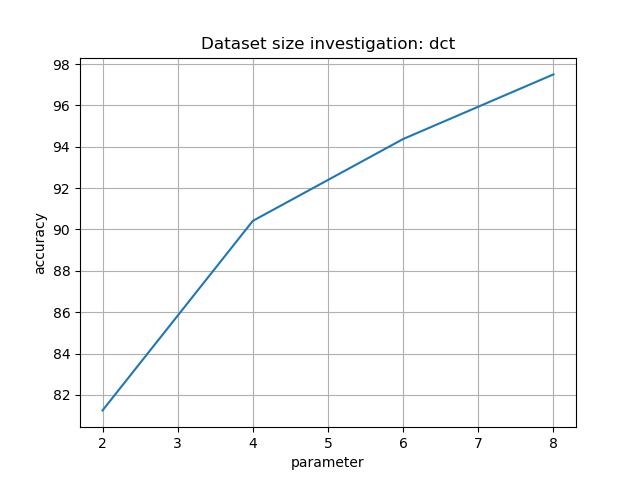
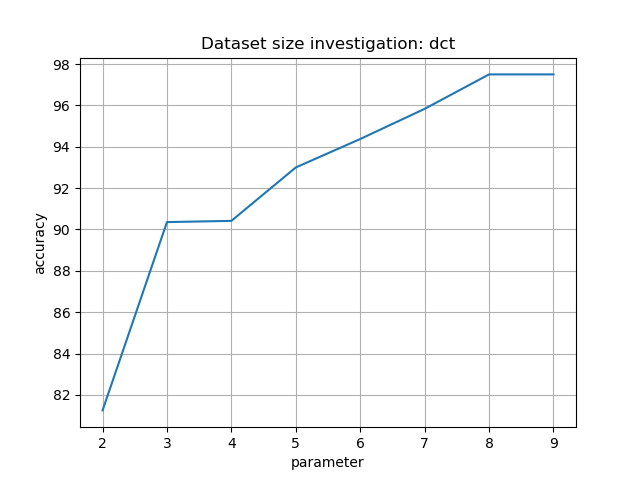
Added voting method

diff --git a/face_recognition.py b/face_recognition.py
@@ -35,68 +35,79 @@ if __name__ == "__main__":
     path_to_db = "orl_faces"
     size_invest_path = os.path.join("graphs", "dataset_size_investigation")
     param_graphs_path = os.path.join("graphs", "parameters_investigation_graphs")
+    voter_inv_path = os.path.join("graphs", "voter_graphs")
     params_inv_config_path = os.path.join("configs", "best_params.yml")
     dataset_inv_config_path = os.path.join("configs", "dataset_size_investigation.yml")
+    voter_inv_config_path = os.path.join("configs", "voter_investigation.yml")
 
     investigation_mode = False
+    voter_investigation_mode = True
     feature_extraction_methods = [ipf.hist, ipf.dft, dct,
                                   ipf.scaler, ipf.sliding_window]
 
     db = make_db(path_to_db)
+    proportions = [0.2, 0.3, 0.4, 0.5, 0.6, 0.7, 0.8, 0.9]
+
+    hist_args = {
+        'histSize': [[x] for x in range(10, 257, 20)],
+        "const_args": {
+            'channels': [0],
+            'mask': None,
+            'ranges': [0, 256]
+        }
+    }
+
+    dct_args = {
+        'n': range(10, 210, 10),
+        "const_args": None
+    }
+
+    window_args = {
+        'window_size': range(1, 21, 1),
+        "const_args": None
+    }
+
+    scaler_args = {
+        'area': range(1, 21, 1),
+        "const_args": None
+    }
+
+    dft_args = {
+        'p': range(50, 200, 10),
+        "const_args": None
+    }
+    args = [hist_args, dft_args, dct_args, scaler_args, window_args]
+
     if investigation_mode:
         proportion = 0.6
         X_train, y_train, X_test, y_test = inv_func.train_and_test_split(db, proportion)
 
-        hist_args = {
-            'histSize': [[x] for x in range(10, 257, 20)],
-            "const_args": {
-                'channels': [0],
-                'mask': None,
-                'ranges': [0, 256]
-            }
-        }
-
-        dct_args = {
-            'n': range(10, 210, 10),
-            "const_args": None
-        }
-
-        window_args = {
-            'window_size': range(1, 21, 1),
-            "const_args": None
-        }
-
-        scaler_args = {
-            'area': range(1, 21, 1),
-            "const_args": None
-        }
-
-        dft_args = {
-            'p': range(50, 200, 10),
-            "const_args": None
-        }
-        args = [hist_args, dft_args, dct_args, scaler_args, window_args]
-
         best_params = inv_func.investigate_params(X_train, y_train, X_test, y_test,
-                                         feature_extraction_methods, args,
-                                         param_graphs_path, params_inv_config_path)
+                                                  feature_extraction_methods, args,
+                                                  param_graphs_path, params_inv_config_path)
 
-        proportions = [0.2, 0.4, 0.6, 0.8]
         inv_func.investigate_dataset_size(db, feature_extraction_methods, args, proportions,
                                           best_params, dataset_inv_config_path, size_invest_path)
+        print(best_params)
     else:
-        hist_args = {
+        best_hist_args = {
             'histSize': [30],
             'channels': [0],
             'mask': None,
             'ranges': [0, 256]
         }
-        dft_args = {'p': 120}
-        dct_args = {'n': 90}
-        scaler_args = {'area': 5}
-        window_args = {'window_size': 2}
-        args = [hist_args, dft_args, dct_args, scaler_args, window_args]
-        proportion = 0.8
-        images_path = "predictions"
+        best_dft_args = {'p': 120}
+        best_dct_args = {'n': 90}
+        best_scaler_args = {'area': 7}
+        best_window_args = {'window_size': 2}
+        best_args = [best_hist_args, best_dft_args, best_dct_args, best_scaler_args, best_window_args]
+        if voter_investigation_mode:
+            accuracies = [1, 0.4, 0.4, 0.5, 0.7]
+            best_params = [[30], 120, 90, 7, 2]
+            inv_func.voter_investigation(db, feature_extraction_methods, args, best_args, proportions,
+                                         best_params, voter_inv_config_path, voter_inv_path, accuracies)
+        else:
+            proportion = 0.8
+            images_path = "predictions"
 
-        inv_func.person_recognition_example(db, proportion, feature_extraction_methods, args, images_path)
+            inv_func.person_recognition_example(db, proportion, feature_extraction_methods, best_args, images_path)

diff --git a/investigation_functions.py b/investigation_functions.py
@@ -5,7 +5,7 @@ import yaml
 import numpy as np
 from matplotlib import pyplot as plt
 
-from FaceRecognizer import FaceRecognizer
+from FaceRecognizer import FaceRecognizer, VoteRecognizer
 
 
 def person_recognition_example(db, proportion, feature_extraction_methods, args, images_path):
@@ -129,7 +129,6 @@ def find_accuracy(X_test, y_test, recognizer):
     all_values_count = len(y_test)
     for test_img, test_person in zip(X_test, y_test):
         prediction = recognizer.predict(test_img)
-
         if prediction[0] == test_person:
             right_predictions_count += 1
 
@@ -140,3 +139,72 @@ def show_image(img, title):
     cv2.imshow(title, img)
     cv2.namedWindow(title)
     cv2.waitKey()
+
+
+def voter_investigation(db, feature_extraction_methods, args, best_args, proportions,
+                        best_params, config_path, graph_path, accuracies):
+    config_dict = {}
+    fig, ax = plt.subplots()
+    train_imgs_count = list(map(lambda x: int(x * 10), proportions))
+
+    for feat_extr_meth, par, best_param in zip(feature_extraction_methods, args, best_params):
+        arg_dict = {list(par.keys())[0]: best_param}
+        if par["const_args"] is not None:
+            arg_dict.update(par["const_args"])
+
+        accuracy_values = []
+        for proportion in proportions:
+            X_train, y_train, X_test, y_test = train_and_test_split(db, proportion)
+            recognizer = FaceRecognizer(feat_extr_meth, arg_dict)
+            recognizer.fit(X_train, y_train)
+            accuracy = find_accuracy(X_test, y_test, recognizer)
+            accuracy_values.append(accuracy)
+
+        method_name = feat_extr_meth.__name__
+        method_dict = {
+            method_name: {
+                'best_param': proportions[np.argmax(accuracy_values)],
+                'best_accuracy': max(accuracy_values)
+            }
+        }
+        config_dict.update(method_dict)
+        with open(config_path, 'w') as f:
+            yaml.dump(config_dict, f)
+
+        # fig = make_plot_for_voting_comparison(train_imgs_count, accuracy_values,
+        #                                       method_name, "Comparison with voting method", fig, ax)
+        print(f"Dataset size investigation for {method_name} is done")
+
+    voting_recognizer = VoteRecognizer(feature_extraction_methods, accuracies, best_args)
+    voting_accuracies = []
+    for proportion in proportions:
+        X_train, y_train, X_test, y_test = train_and_test_split(db, proportion)
+        voting_recognizer.fit(X_train, y_train)
+        voting_accuracies.append(find_accuracy(X_test, y_test, voting_recognizer))
+    print(f"Dataset size investigation for voting method is done")
+    method_dict = {
+        "Voter": {
+            'best_param': proportions[np.argmax(voting_accuracies)],
+            'best_accuracy': max(voting_accuracies)
+        }
+    }
+    config_dict.update(method_dict)
+    with open(config_path, 'w') as f:
+        yaml.dump(config_dict, f)
+
+    fig = make_plot_for_voting_comparison(train_imgs_count, voting_accuracies,
+                                          "voting method", "Voting method", fig, ax)
+
+    # ax.legend(["Hist", "DFT", "DCT", "Sc-Scale", "Sliding window", "Voting method"])
+    graph_path = os.path.join(graph_path, "voting_graphs.png")
+    fig.savefig(graph_path)
+
+
+def make_plot_for_voting_comparison(x, y, method_name, investigation_type, fig, ax):
+    ax.set_xlabel("parameter")
+    ax.set_ylabel("accuracy")
+    ax.title.set_text(f"{investigation_type}")
+    ax.plot(x, y, label=method_name)
+    ax.grid()
+
+    return fig

diff --git a/FaceRecognizer.py b/FaceRecognizer.py
@@ -8,7 +8,6 @@ class FaceRecognizer:
         self.X_train, self.y_train = [], []
 
     def fit(self, X_train, y_train):
-
         self.X_train = _prepare_dataset(X_train, self.feature_extraction_method, self.method_args)
         self.y_train = y_train
 
@@ -29,3 +28,33 @@ def _prepare_dataset(images, feature_extraction_method, method_args):
         vectors.append(vector)
 
     return vectors
+
+
+class VoteRecognizer:
+    def __init__(self, extraction_methods: list, accuracies: list,
+                 methods_args: list = None):
+        self.extraction_methods = extraction_methods
+        self.methods_args = methods_args
+        self.accuracies = accuracies
+        self.recognizers = []
+        self.classes = []
+        # self.X_train, self.y_train = [], []
+
+    def fit(self, X_train, y_train):
+        for method, args, accuracy in zip(self.extraction_methods, self.methods_args, self.accuracies):
+            recognizer = FaceRecognizer(method, args)
+            recognizer.fit(X_train, y_train)
+            self.recognizers.append(recognizer)
+            if method == self.extraction_methods[-1]:
+                self.classes = set(recognizer.y_train)
+            # self.X_train.append(recognizer.X_train)
+            # self.y_train.append(recognizer.y_train)
+
+    def predict(self, img):
+        predictions = np.zeros(len(self.classes)+1)
+        for recognizer, accuracy in zip(self.recognizers, self.accuracies):
+            prediction = recognizer.predict(img)[0]
+            #print("Predict by meth", prediction)
+            predictions[prediction] += accuracy
+        #print("Prediction by vote", np.argmax(predictions))
+        return np.argmax(predictions), None
